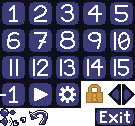
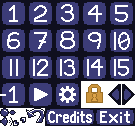
buttons + crash + credits
-fixed back buttons
-added credits
-removed ability to pause when level is finished

Changed region(s): [[0.1778, 0.8571, 0.7111, 1.0]]

diff --git a/screen/settings.py b/screen/settings.py
@@ -47,25 +47,30 @@ class SettingsScreen(Screen):
 
         def screen_size():
             globalvars.set_size(round(max(0,min(8,((pygame.mouse.get_pos()[0]/globalvars.PIXEL_WIDTH-50)/75*8))))+1)
-        self.size_slider = Button(50, 70, 75, 9, screen_size)
+        self.size_slider = Button(50, 64, 75, 9, screen_size)
         self.components.append(self.size_slider)
+
+        def credits():
+            globalvars.CURR_SCREEN=globalvars.SCREEN_CONSTRS["credits"](())
+        self.components.append(Button(123, 78, 50, 18, credits))
 
     def render(self, screen):
         screen.fill((30, 30, 60))
 
         super().render(screen)
-        screen.blit(globalvars.IMAGES["buttons"], (5, 79), (29, 110, 19, 15))
+        screen.blit(globalvars.IMAGES["buttons"], (5, 79), (26, 108, 19, 15))
+        screen.blit(globalvars.IMAGES["buttons"], (123, 78), (45, 108, 50, 18))
 
         screen.blit(globalvars.IMAGES["buttons"], (35, 50), (0, 117, 13, 9))
-        screen.blit(globalvars.IMAGES["buttons"], (35, 70), (13, 117, 13, 9))
+        screen.blit(globalvars.IMAGES["buttons"], (35, 65), (13, 117, 13, 9))
 
         screen.blit(globalvars.IMAGES["buttons"], (52, 52), (9, 110, 3, 5))
         screen.blit(globalvars.IMAGES["buttons"], (121, 52), (13, 110, 3, 5))
-        screen.blit(globalvars.IMAGES["buttons"], (52, 72), (9, 110, 3, 5))
-        screen.blit(globalvars.IMAGES["buttons"], (121, 72), (13, 110, 3, 5))
+        screen.blit(globalvars.IMAGES["buttons"], (52, 67), (9, 110, 3, 5))
+        screen.blit(globalvars.IMAGES["buttons"], (121, 67), (13, 110, 3, 5))
         for i in range(55, 121):
             screen.blit(globalvars.IMAGES["buttons"], (i, 52), (12, 110, 1, 5))
-            screen.blit(globalvars.IMAGES["buttons"], (i, 72), (12, 110, 1, 5))
+            screen.blit(globalvars.IMAGES["buttons"], (i, 67), (12, 110, 1, 5))
 
         screen.blit(globalvars.IMAGES["buttons"], (self.vol_slider.x, 50), (0, 108, 9, 9))
-        screen.blit(globalvars.IMAGES["buttons"], (50+(globalvars.PIXEL_WIDTH-1)*66/8, 70), (0, 108, 9, 9))
+        screen.blit(globalvars.IMAGES["buttons"], (50+(globalvars.PIXEL_WIDTH-1)*66/8, 65), (0, 108, 9, 9))

diff --git a/screen/credits.py b/screen/credits.py
@@ -1,0 +1,28 @@
+import os
+
+import pygame
+
+import globalvars
+from screen.component.button import Button
+from screen.screen import Screen
+
+
+class CreditsScreen(Screen):
+    IMAGE = None
+    def __init__(self, args: tuple):
+        super().__init__(args)
+
+        def back():
+            globalvars.CURR_SCREEN = globalvars.SCREEN_CONSTRS["title"](())
+        self.components.append(Button(5, 79, 19, 15, back))
+
+        if CreditsScreen.IMAGE is None:
+            CreditsScreen.IMAGE = pygame.image.load(os.path.join('resources', '../resources/credits.png'))
+
+    def render(self, screen):
+        screen.fill((30, 30, 60))
+
+        super().render(screen)
+
+        screen.blit(globalvars.IMAGES["buttons"], (5, 79), (26, 108, 19, 15))
+        screen.blit(CreditsScreen.IMAGE, (24, 5))

diff --git a/main.py b/main.py
@@ -23,11 +23,12 @@ from entity import disk, player, solid, spawn, tiles, spikes, display
 for entity in {disk, player, solid, spawn, tiles, spikes, display}:
     entity.init()
 
-from screen import level, select, settings, title
+from screen import level, select, settings, title, credits
 globalvars.SCREEN_CONSTRS["level"] = level.LevelScreen
 globalvars.SCREEN_CONSTRS["select"] = select.SelectScreen
 globalvars.SCREEN_CONSTRS["settings"] = settings.SettingsScreen
 globalvars.SCREEN_CONSTRS["title"] = title.TitleScreen
+globalvars.SCREEN_CONSTRS["credits"] = credits.CreditsScreen
 
 globalvars.CURR_SCREEN = TitleScreen(())
 globalvars.IMAGES = {

diff --git a/entity/player.py b/entity/player.py
@@ -88,7 +88,7 @@ class PlayerEntity(GravityEntity):
 
     def render(self):
         self.level.surface.blit(PlayerEntity.IMAGE, (round(self.x), round(self.y)), self.parse)
-        self.level.surface.blit(PlayerEntity.IMAGE, (round(self.coll_checker.x), round(self.coll_checker.y)), self.parse)
+        #self.level.surface.blit(PlayerEntity.IMAGE, (round(self.coll_checker.x), round(self.coll_checker.y)), self.parse)
 
 def init():
     level_loader.ENTITY_LOADERS['player'] = lambda strings: PlayerEntity()

diff --git a/screen/select.py b/screen/select.py
@@ -78,4 +78,4 @@ class SelectScreen(Screen):
             self.screen.blit(globalvars.IMAGES["buttons"], (10,50), (108, 81, 13, 27))
         if self.vis_scroll_offs<=13.5:
             self.screen.blit(globalvars.IMAGES["buttons"], (153,50), (122, 81, 13, 27))
-        self.screen.blit(globalvars.IMAGES["buttons"], (5,79), (29,110, 19,15))
+        self.screen.blit(globalvars.IMAGES["buttons"], (5,79), (26, 108, 19,15))

diff --git a/screen/level.py b/screen/level.py
@@ -72,7 +72,7 @@ class LevelScreen(Screen):
 
     def render(self, screen):
         esc_pressed = pygame.key.get_pressed()[pygame.K_ESCAPE]
-        if self.last_esc is False and esc_pressed is True:
+        if self.last_esc is False and esc_pressed is True and not self.level.finished:
             self.paused = not self.paused
         self.last_esc = esc_pressed
 
